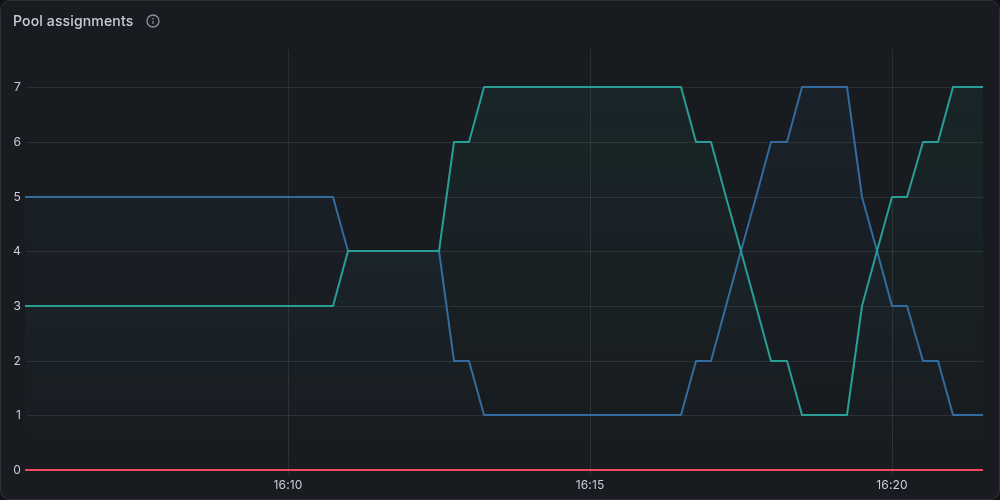
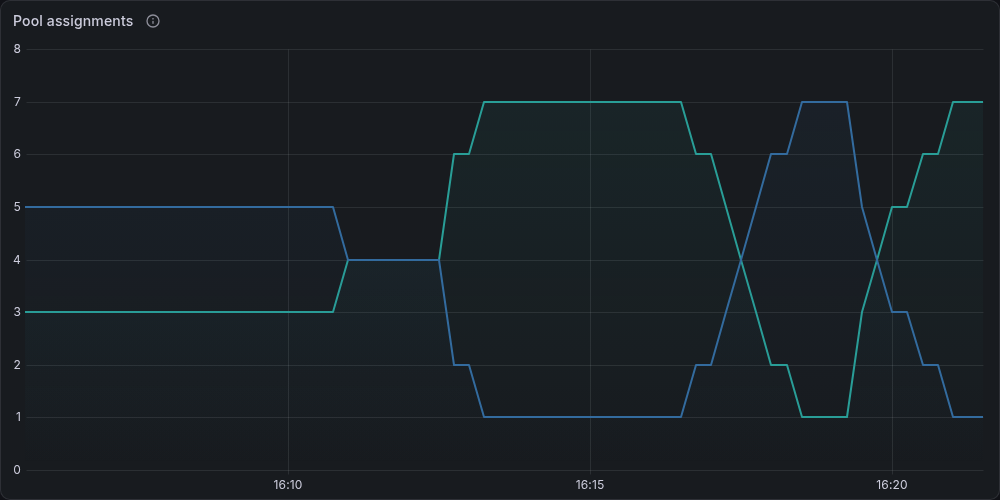
feat: count pool engines in service on the dashboard
Pool assignments now counts only engines in service in the prefill and
decode lines. A red "out of service" line counts engines that are
quarantined, draining, ejected, validating, blocked or unreachable, so an
engine that leaves service drops from its pool line.

diff --git a/tests/observability/test_public_namespace.py b/tests/observability/test_public_namespace.py
@@ -441,6 +441,30 @@ class PublicNamespaceTests(unittest.IsolatedAsyncioTestCase):
             self.assertEqual(roles[str(code)]["color"], table_colors[name])
         self.assertIn("label_replace(4 * max by(iid) (narwhal_engine_quarantined{", expr)
 
+    def test_pool_assignments_count_engines_in_service(self):
+        """Pool lines count in-service engines, and the red line counts engines out of service."""
+        element = dashboard()["spec"]["elements"]["panel-10"]
+        queries = {
+            query["spec"]["query"]["spec"]["legendFormat"]: query["spec"]["query"]["spec"]["expr"]
+            for query in element["spec"]["data"]["spec"]["queries"]
+        }
+        self.assertEqual(list(queries), ["prefill", "decode", "out of service"])
+        held = (
+            "narwhal_engine_quarantined",
+            "narwhal_engine_draining",
+            "narwhal_ejected{",
+            'state=~"validating|blocked"',
+            'up{job="engines"} == 0',
+        )
+        for legend, expr in queries.items():
+            with self.subTest(legend=legend):
+                self.assertIn("narwhal_instance_role", expr)
+                for source in held:
+                    self.assertIn(source, expr)
+        self.assertIn("unless on(iid)", queries["prefill"])
+        self.assertIn("unless on(iid)", queries["decode"])
+        self.assertIn("and on(iid)", queries["out of service"])
+
     def test_headline_row_reports_requests_and_latency_against_the_slo(self):
         """The first row holds one-row Requests and Latency tables beside the Router block."""
         spec = dashboard()["spec"]

diff --git a/docs/observability/05-Dashboard.md b/docs/observability/05-Dashboard.md
@@ -41,19 +41,19 @@ The engine table and **Engine role history** colour engine states:
 
 The charts and the headline row colour request outcomes, alerts, status values and the router's own measurements:
 
-| Colour       | Hex       | Meaning                                                                        |
-| ------------ | --------- | ------------------------------------------------------------------------------ |
-| Light blue   | `#5794F2` | offered                                                                        |
-| Pale blue    | `#8AB8FF` | ended before sizing                                                            |
-| Light yellow | `#FFEE52` | cancelled                                                                      |
-| Yellow       | `#F2CC0C` | refused, warnings, the pool target and headline values near their limit        |
-| Orange       | `#FF9830` | rejected                                                                       |
-| Pink         | `#FF7383` | invalid                                                                        |
-| Red          | `#F2495C` | failed, pages, SLO lines, ejected engines and headline values past their limit |
-| Dark red     | `#C4162A` | expired                                                                        |
-| Purple       | `#B877D9` | retry attempts                                                                 |
-| Dark purple  | `#A352CC` | queue wait and event-loop lag                                                  |
-| Light purple | `#CA95E5` | seat time and event-loop busy share                                            |
+| Colour       | Hex       | Meaning                                                                               |
+| ------------ | --------- | ------------------------------------------------------------------------------------- |
+| Light blue   | `#5794F2` | offered                                                                               |
+| Pale blue    | `#8AB8FF` | ended before sizing                                                                   |
+| Light yellow | `#FFEE52` | cancelled                                                                             |
+| Yellow       | `#F2CC0C` | refused, warnings, the pool target and headline values near their limit               |
+| Orange       | `#FF9830` | rejected                                                                              |
+| Pink         | `#FF7383` | invalid                                                                               |
+| Red          | `#F2495C` | failed, pages, SLO lines, engines out of service and headline values past their limit |
+| Dark red     | `#C4162A` | expired                                                                               |
+| Purple       | `#B877D9` | retry attempts                                                                        |
+| Dark purple  | `#A352CC` | queue wait and event-loop lag                                                         |
+| Light purple | `#CA95E5` | seat time and event-loop busy share                                                   |
 
 ## Headline row
 
@@ -159,7 +159,7 @@ When a Narwhal alert starts firing, a red (page) or yellow (warning) dashed mark
 
 ## Pool assignments
 
-**Pool assignments** shows how many engines serve each phase over time.
+**Pool assignments** shows how many engines serve each phase over time, and how many are out of service.
 
 <div class="narwhal-panel-row" markdown>
 
@@ -167,7 +167,7 @@ When a Narwhal alert starts firing, a red (page) or yellow (warning) dashed mark
 
 </div>
 
-The teal line counts prefill engines, the blue line counts decode engines and the red line counts engines the breaker ejected. Mirrored steps in the teal and blue lines mark a role flip.
+The teal line counts prefill engines in service and the blue line counts decode engines in service. The red line counts engines in any out-of-service [engine state](#engine-states), and it appears while at least one engine is out. An engine that leaves service moves from its pool line to the red line, so the three lines add up to the fleet. Mirrored steps in the teal and blue lines mark a role flip.
 
 ## Latency and token throughput
 
